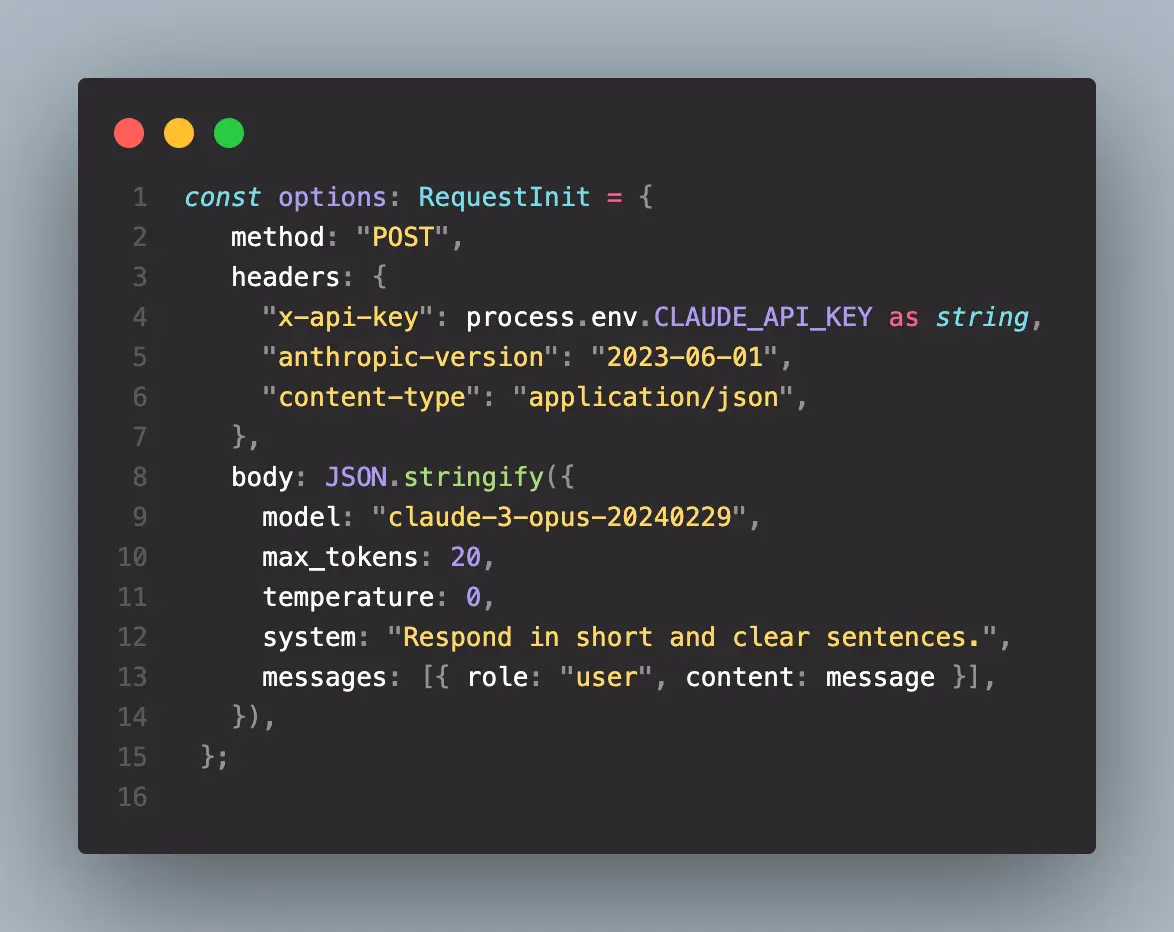
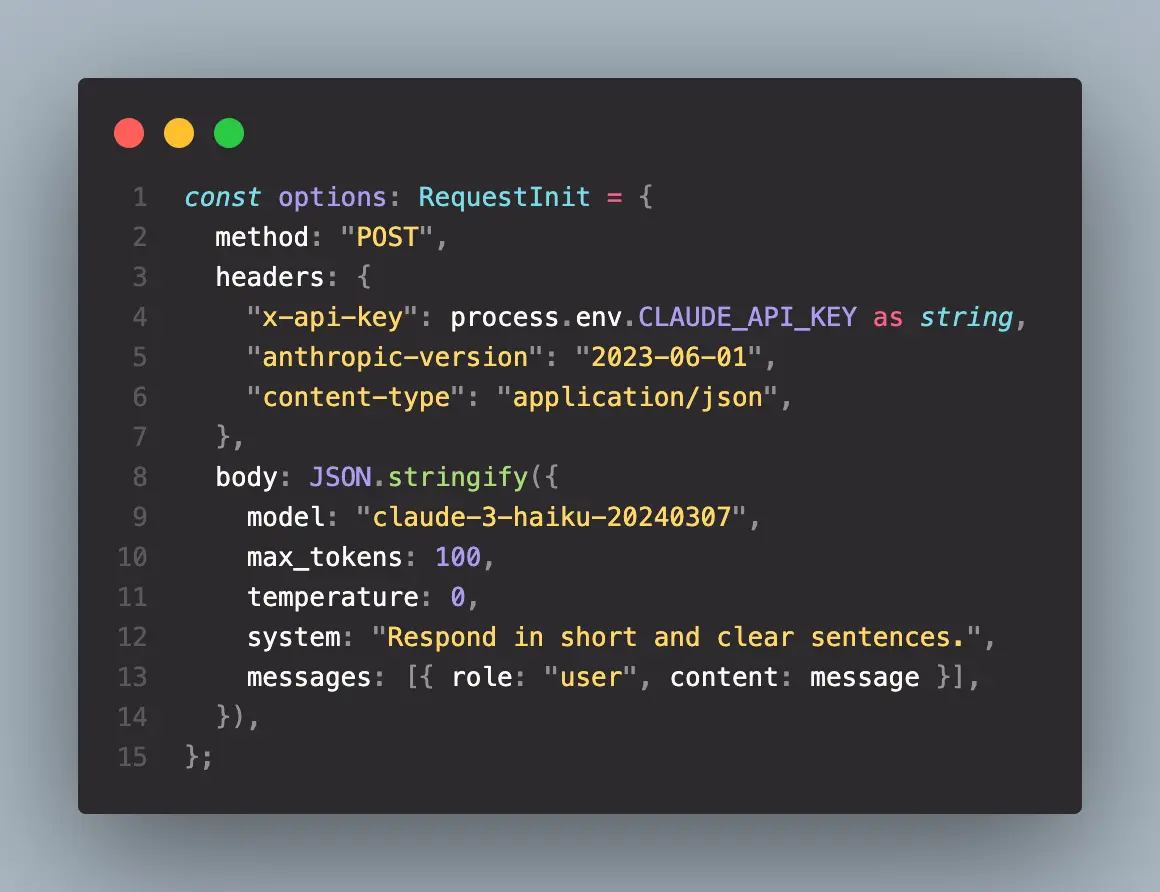
updated max_tokens params to 20 in ProjectsDetails and changed the image

diff --git a/src/components/HomePage/Projects/ProjectsDetails.js b/src/components/HomePage/Projects/ProjectsDetails.js
@@ -333,10 +333,10 @@ export const MfonAiDetails = ({
                   <span className="inline-block mb-2">
                     In the request body, the{' '}
                     <span className="font-semibold">max_tokens</span> parameter
-                    is set to <span className="font-semibold">20</span> to limit
-                    the number of tokens returned by the Claude API. This is
-                    because I'm currently using the free tier of the Claude API
-                    and want to avoid exceeding my usage limits for this
+                    is set to <span className="font-semibold">100</span> to
+                    limit the number of tokens returned by the Claude API. This
+                    is because I'm currently using the free tier of the Claude
+                    API and want to avoid exceeding my usage limits for this
                     personal project
                   </span>
                   <div className="flex justify-center w-full">
@@ -355,7 +355,7 @@ export const MfonAiDetails = ({
                 <div>
                   <span className="inline-block mb-2">
                     Setting <span className="font-semibold">max_tokens</span> to{' '}
-                    <span className="font-semibold">20</span> means that the
+                    <span className="font-semibold">100</span> means that the
                     Claude API will not return the complete answer if the token
                     limit is exceeded. In such cases, an error message stating
                     <span className="font-semibold">
